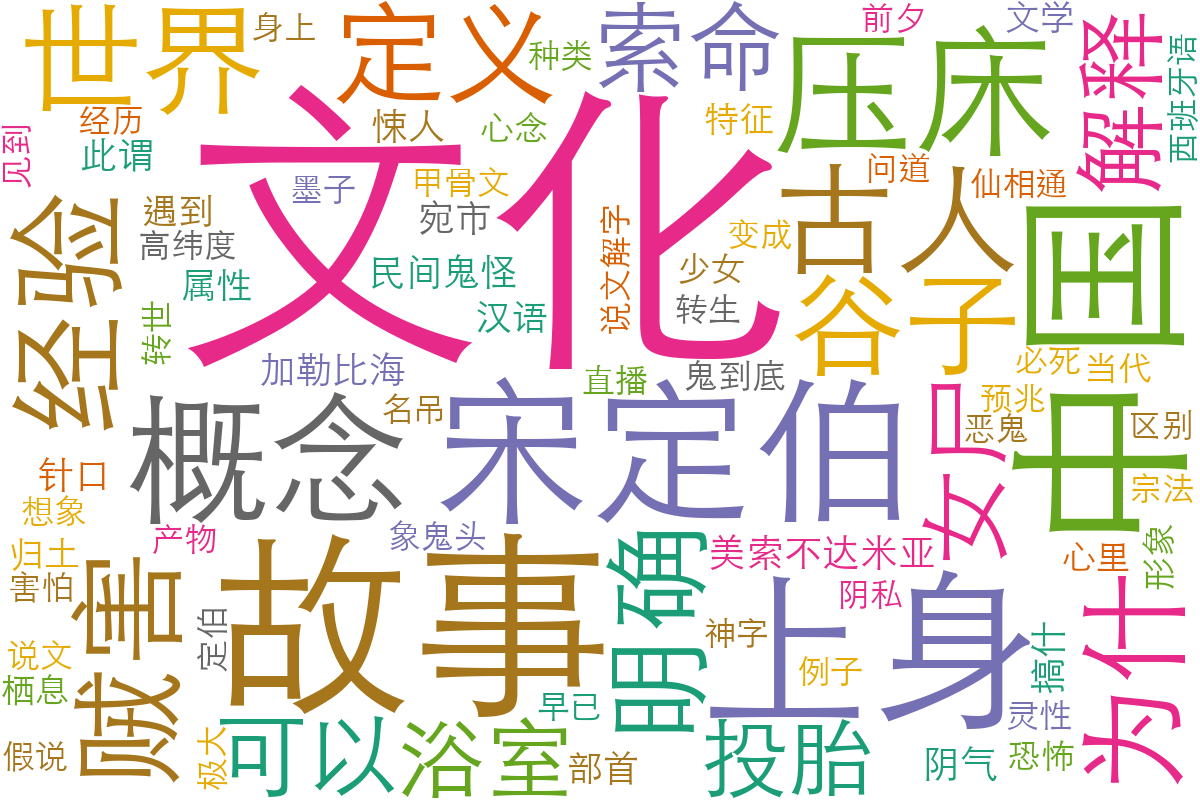
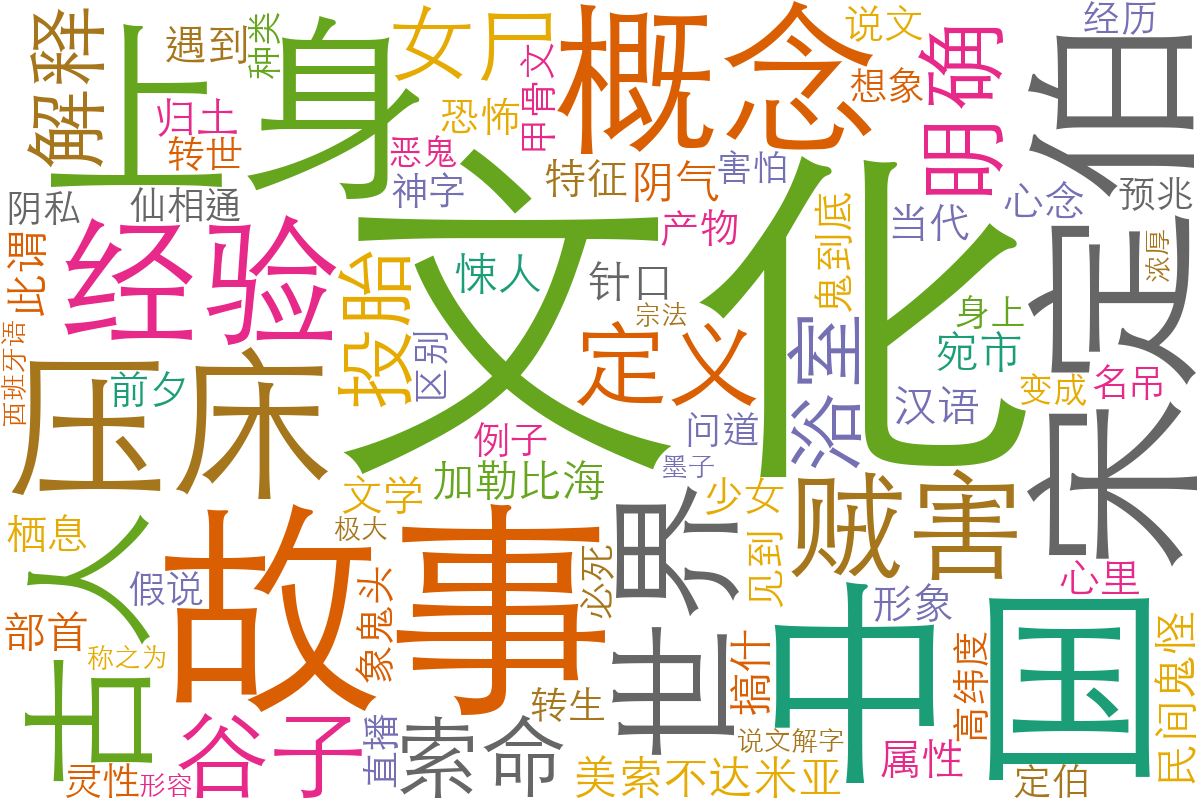
modifier le nuage de mots chinois

diff --git a/programmes/wordcloud_chinois.py b/programmes/wordcloud_chinois.py
@@ -14,7 +14,9 @@ STOPWORDS = {"的", "了", "在", "是", "我", "有", "和", "就", "不", "人
 
     "非常", "十分", "极其", "特别", "相当", "稍微", "有点", "几乎", "全部", "所有", "一切", "已经", "能够", "通过", "进行", "作为", "目前", "此时", "因此", "因此", "从而", "确实", "确实", "其实", "似乎", "所谓", "既然", "虽然", "确实", "确确实实", "容易", "突然", "依然", "依然", "一直", "曾经", "正在", "已经",
 
-    "出现", "存在", "产生", "进行", "关于", "对于", "由于", "针对", "采用", "提供", "导致", "说明", "具有", "如下", "如下", "如图", "如图", "显示", "表明", "上述", "如下", "如图", "部分", "很多", "许多", "不少", "一点", "一些","为什么","有关","二十","有关"
+    "出现", "存在", "产生", "进行", "关于", "对于", "由于", "针对", "采用", "提供", "导致", "说明", "具有", "如下", "如下", "如图", "如图", "显示", "表明", "上述", "如下", "如图", "部分", "很多", "许多", "不少", "一点", "一些","为什么","有关","二十","有关","可以","早已","为什",
+    "一", "一些", "一何", "一切", "一则", "一方面", "一旦", "一来", "一样", "一般", "一转眼", "万一", "上", "上下", "下", "不", "不仅", "不但", "不光", "不单", "不只", "不外乎", "不如", "不妨", "不尽", "不尽然", "不得", "不怕", "不惟", "不成", "不拘", "不料", "不是", "不比", "不然", "不特", "不独", "不管", "不至于", "不若", "不论", "不过", "不问", "与", "与其", "与其说", "与否", "与此同时", "且", "且不说", "且说", "两者", "个", "个别", "临", "为", "为了", "为什么", "为何", "为止", "为此", "为着", "乃", "乃至", "乃至于", "么", "之", "之一", "之所以", "之类", "乌乎", "乎", "乘", "也", "也好", "也罢", "了", "二来", "于", "于是", "于是乎", "云云", "云尔", "些", "亦", "人", "人们", "人家", "什么", "什么样", "今", "介于", "仍", "仍旧", "从", "从此", "从而", "他", "他人", "他们", "以", "以上", "以为", "以便", "以免", "以及", "以故", "以期", "以来", "以至", "以至于", "以致", "们", "任", "任何", "任凭", "似的", "但", "但凡", "但是", "何", "何以", "何况", "何处", "何时", "余外", "作为", "你", "你们", "使", "使得", "例如", "依", "依据", "依照", "便于", "俺", "俺们", "倘", "倘使", "倘或", "倘然", "倘若", "借", "假使", "假如", "假若", "傥然", "像", "儿", "先不先", "光是", "全体", "全部", "兮", "关于", "其", "其一", "其中", "其二", "其他", "其余", "其它", "其次", "具体地说", "具体说来", "兼之", "内", "再", "再其次",
+    "0", "1", "2", "3", "4", "5", "6", "7", "8", "9", "?", "_", "“", "”", "、", "。", "《", "》", "！", "，", "：", "；", "？"
 }
 
 def is_clean_chinese(text):
